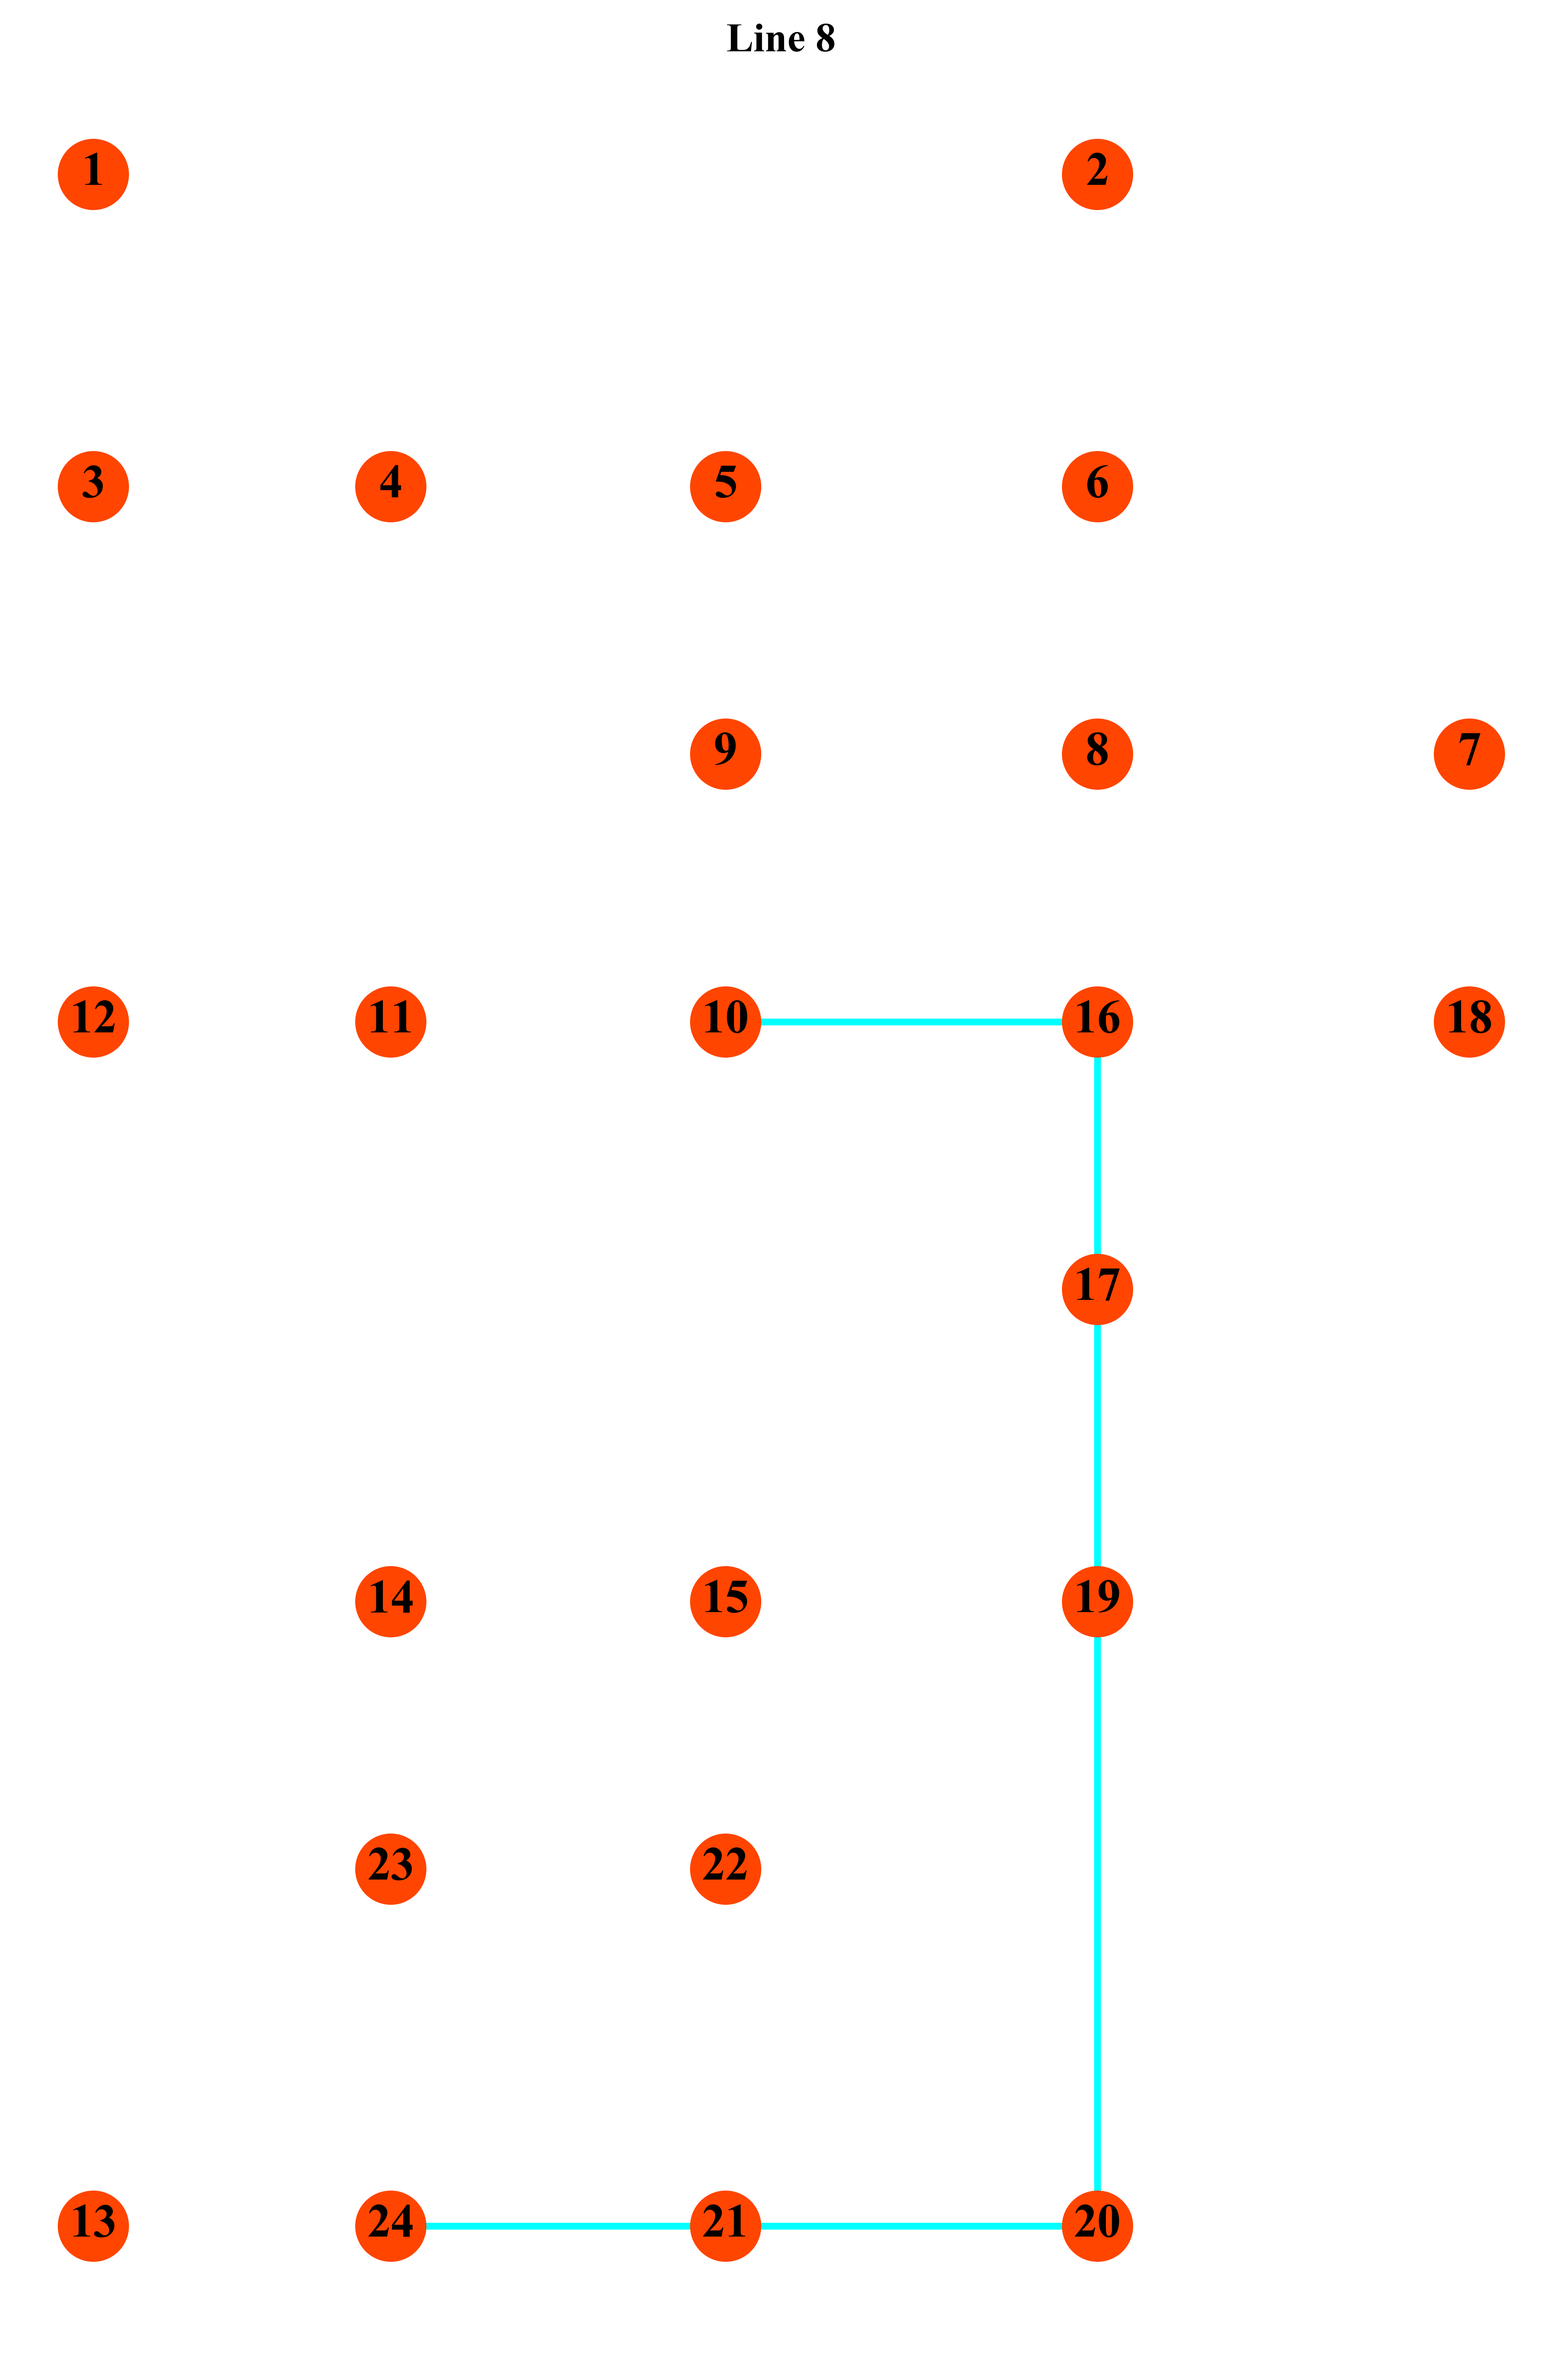
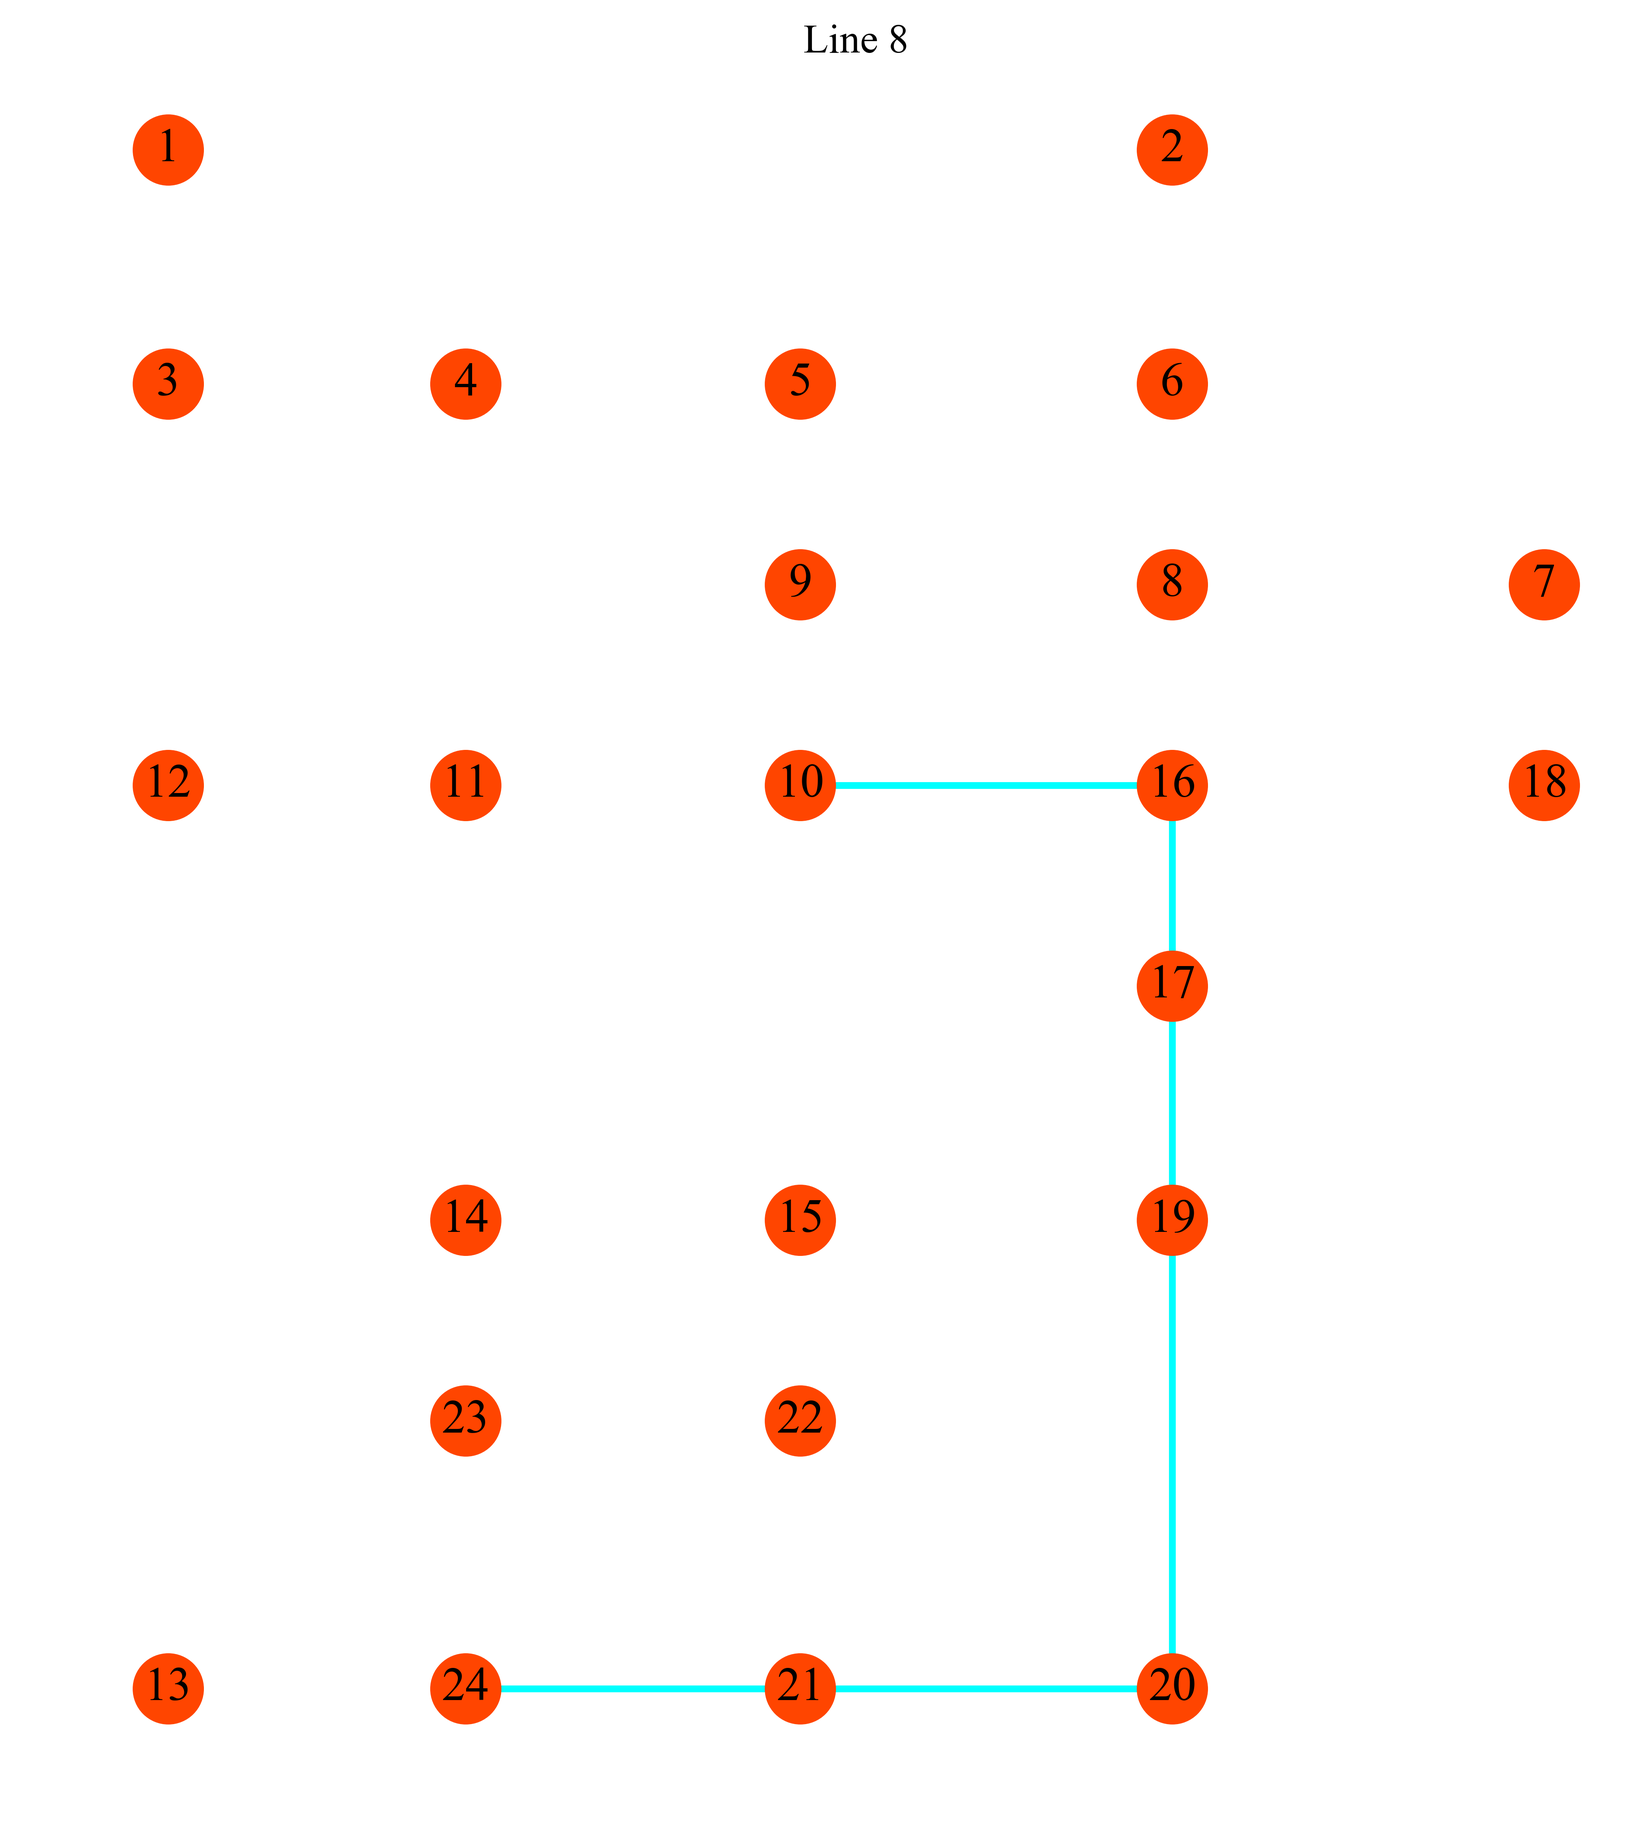
ini

diff --git a/SioxFallTransitNetwork/main.py b/SioxFallTransitNetwork/main.py
@@ -187,14 +187,14 @@ if __name__ == "__main__":
     (nodes, x, y) = read_standard_node()
     # G = nx.DiGraph()
     G = nx.MultiGraph()
-    plt.figure(figsize=(8, 12))
+    plt.figure(figsize=(6, 8))
     for i in range(0, len(nodes)):
         G.add_node(nodes[i], pos=(x[i], y[i]))
     node_pos = nx.get_node_attributes(G, 'pos')
     # nx.draw_networkx(G, node_pos, node_size=500)
     # nx.draw_networkx_nodes(G,node_pos,node_size=500,node_color="lightsalmon")
-    nx.draw_networkx_nodes(G,node_pos,node_size=400,node_color="orangered")
-    nx.draw_networkx_labels(G,node_pos,font_family="Times New Roman",font_size=14)
+    nx.draw_networkx_nodes(G,node_pos,node_size=200,node_color="orangered")
+    nx.draw_networkx_labels(G,node_pos,font_family="Times New Roman",font_size=10)
 
     # line 0
     h = []
@@ -232,7 +232,7 @@ if __name__ == "__main__":
 
     for nl in range(0,10):
         G = nx.MultiGraph()
-        plt.figure(figsize=(8, 12))
+        plt.figure(figsize=(8, 9))
         for i in range(0, len(nodes)):
             G.add_node(nodes[i], pos=(x[i], y[i]))
         node_pos = nx.get_node_attributes(G, 'pos')
